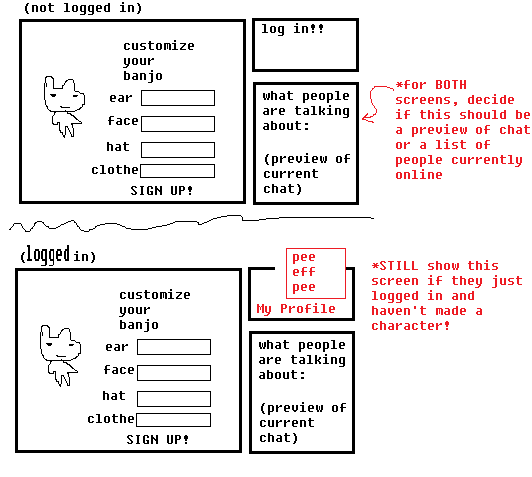
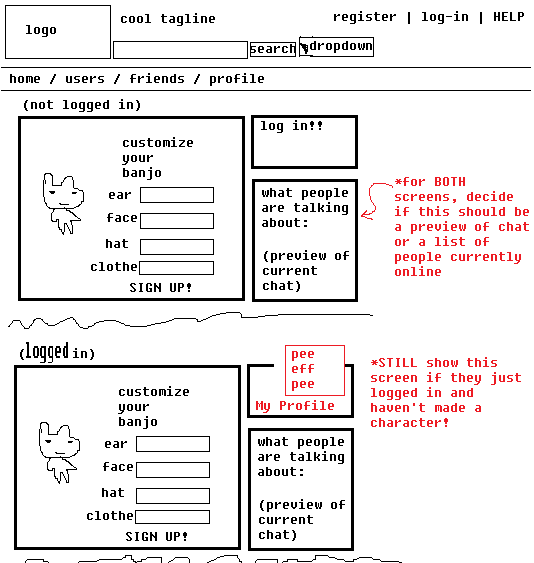
Structure changes

diff --git a/db.js b/db.js
@@ -1,0 +1,40 @@
+const mysql = require('mysql2');
+
+// dot env config
+const dotenv = require('dotenv');
+dotenv.config();
+
+//short
+const DB_NAME = process.env.DB_NAME;
+
+//WE CAN QUERY THE DATABASE WOOOHOOOO
+//get connection
+const connection = mysql.createConnection({
+    host: 'localhost',
+    user: 'root',
+    password: process.env.DB_PASSWORD
+});
+
+//this just prevents repetition
+function attempt(sql){
+    connection.query(sql, (err) => { if (err) throw err; });
+}
+
+//create db structure if not exists
+//"Sock" Drawer; "User" Table
+connection.connect();
+attempt(`CREATE DATABASE IF NOT EXISTS ${DB_NAME} DEFAULT CHARACTER SET utf8;`);
+attempt(`USE ${DB_NAME};`);
+attempt(
+    `CREATE TABLE IF NOT EXISTS ${DB_NAME}.user (
+        user_id INT NOT NULL AUTO_INCREMENT,
+        username VARCHAR(16) NOT NULL,
+        email VARCHAR(255) NULL,
+        password VARCHAR(32) NOT NULL,
+        create_time TIMESTAMP NULL DEFAULT CURRENT_TIMESTAMP,
+        PRIMARY KEY (user_id)
+    );`
+);
+connection.end();
+
+module.exports = connection;

diff --git a/public/css/base.css b/public/css/base.css
@@ -18,23 +18,42 @@ hr{
     border: none;
     border-top: dashed 1px black;
 }
+legend{
+    font-weight: bold;
+}
+a img{
+    vertical-align: bottom; 
+    display: inline-block;
+}
 
-/*Navigation styles*/
+/*Header*/
+.top{
+    display: flex;
+}
+
+/*Navigation*/
 .nav{
     display: flex;
     list-style: none;
+    align-content: space-between;
     margin: 0;
     padding: 0;
-    align-content: space-between;
-}
-.nav li{
-    padding: 4px 0;
 }
 .nav li:not(:last-child):after{ 
     content: "/";
-    padding: 0 8px;
+    padding: 0 6px;
 }
 
+/*Main nav*/
+.nav.main{
+    margin: 3px 0;
+    padding: 2px;
+    background-color: wheat;
+}
+/*Util nav*/
+.nav.util{
+    margin-left: auto;
+}
 
 /*Page structure styles*/
 .container{

diff --git a/app.js b/app.js
@@ -1,0 +1,23 @@
+const express = require('express');
+
+// dot env config
+const dotenv = require('dotenv');
+dotenv.config();
+
+//get routers
+let indexRouter = require('./routes/index');
+let authRouter = require('./routes/auth');
+
+//app stuff
+const app = express();
+
+//awesome
+app.set('view engine', 'pug');
+app.use(express.static('public'));
+app.listen(process.env.PORT, () => {
+    console.log(`App listening on port ${process.env.PORT}`);
+})
+
+//USE our routers!
+app.use('/', indexRouter);
+app.use('/', authRouter);

diff --git a/routes/auth.js b/routes/auth.js
@@ -1,0 +1,13 @@
+var express = require('express');
+var router = express.Router();
+
+//contains register, login & logout
+
+router.get('/register', function(req, res, next) {
+    res.render('register');
+});
+router.get('/login', function(req, res) {
+    res.render('login');
+});
+
+module.exports = router;

diff --git a/routes/index.js b/routes/index.js
@@ -1,0 +1,8 @@
+var express = require('express');
+var router = express.Router();
+
+router.get('/', function(req, res) {
+    res.render('index', { user: 'USER_ID--will probably be req.user' });
+});
+
+module.exports = router;
